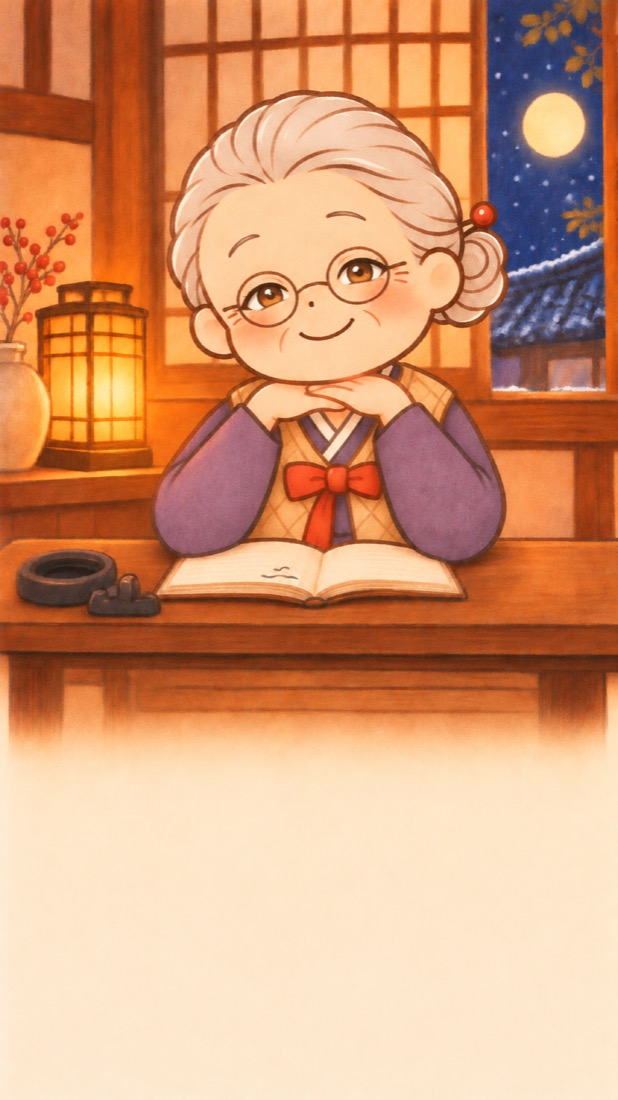
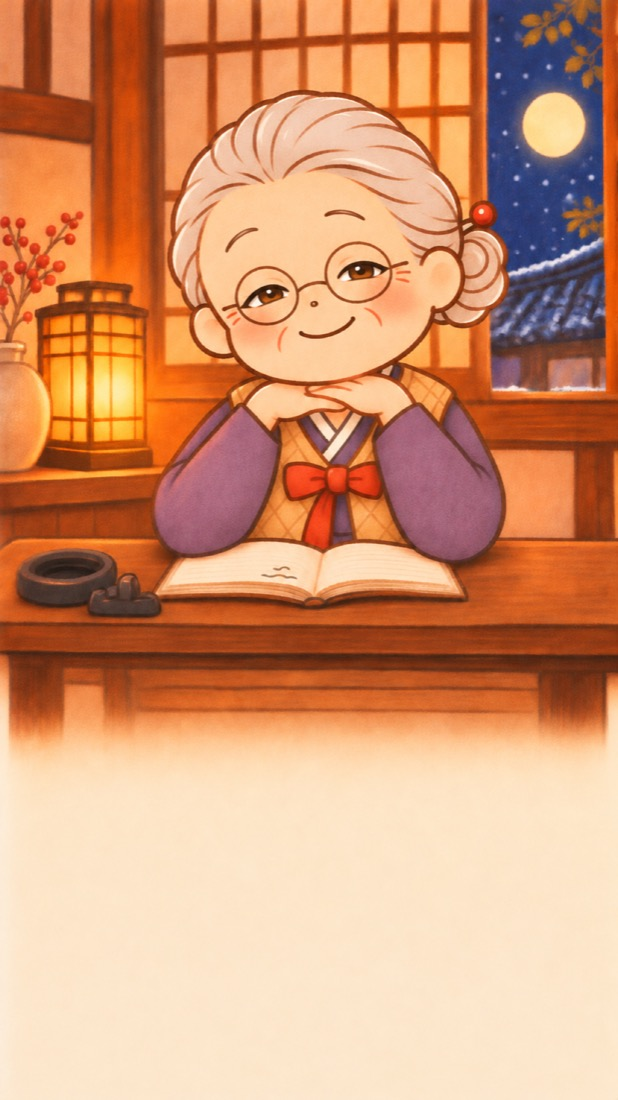
Q5 눈 맞춤

diff --git a/preview/soft.html b/preview/soft.html
@@ -1,3 +1,3 @@
 <!doctype html><html lang="ko"><head><meta charset="utf-8"><meta name="viewport" content="width=device-width,initial-scale=1"><meta name="robots" content="noindex,nofollow"><title>할미 표정 바꾼 그림 4장</title>
 <style>body{margin:0;background:#F6F1E7;font-family:-apple-system,sans-serif;color:#2B2622}main{max-width:448px;margin:0 auto;padding:16px 16px 48px}h1{font-size:20px;line-height:30px;margin:8px 0}p{font-size:15px;line-height:24px;color:#6E6459;margin:4px 0 16px}.box{position:relative;border-radius:16px;overflow:hidden}.box img{display:block;width:100%}.say{position:absolute;left:16px;right:16px;bottom:24%;text-align:center;font-family:serif;font-size:18px;line-height:27px;color:#0E324C;margin:0}.cap{font-size:13px;margin:4px 0 24px}</style></head>
-<body><main><h1>할미 그림 4장 · 눈 조금 크게, 눈웃음</h1><p>입 다문 은은한 미소, 부드럽게 뜬 갈색 눈. 영상 만들기 전 그림이에요.</p><div class="box"><img src="s/Q1.jpg?v=7"><p class="say">“운명을 펼치기 전에, 먼저 이름부터 알려줄래요?”</p></div><p class="cap">Q1 · 도입</p><div class="box"><img src="s/Q5.jpg?v=7"><p class="say">“좋아요, 몇 가지만 더 물어볼게요! 혹시 지금 만나는 분이 계세요?”</p></div><p class="cap">Q5 · 연애</p><div class="box"><img src="s/Q8.jpg?v=7"><p class="say">“특별히 물어보실 내용이 있다면 따로 풀이를 작성해 드릴게요.”</p></div><p class="cap">Q8 · 따로 물을 것</p><div class="box"><img src="s/Q9.jpg?v=7"><p class="say">“자, 이제 마지막이에요! 제비 하나만 뽑아주시겠어요?”</p></div><p class="cap">Q9 · 마지막</p></main></body></html>
+<body><main><h1>할미 그림 4장 · 눈 조금 크게, 눈웃음</h1><p>입 다문 은은한 미소, 부드럽게 뜬 갈색 눈. 영상 만들기 전 그림이에요.</p><div class="box"><img src="s/Q1.jpg?v=8"><p class="say">“운명을 펼치기 전에, 먼저 이름부터 알려줄래요?”</p></div><p class="cap">Q1 · 도입</p><div class="box"><img src="s/Q5.jpg?v=8"><p class="say">“좋아요, 몇 가지만 더 물어볼게요! 혹시 지금 만나는 분이 계세요?”</p></div><p class="cap">Q5 · 연애</p><div class="box"><img src="s/Q8.jpg?v=8"><p class="say">“특별히 물어보실 내용이 있다면 따로 풀이를 작성해 드릴게요.”</p></div><p class="cap">Q8 · 따로 물을 것</p><div class="box"><img src="s/Q9.jpg?v=8"><p class="say">“자, 이제 마지막이에요! 제비 하나만 뽑아주시겠어요?”</p></div><p class="cap">Q9 · 마지막</p></main></body></html>
